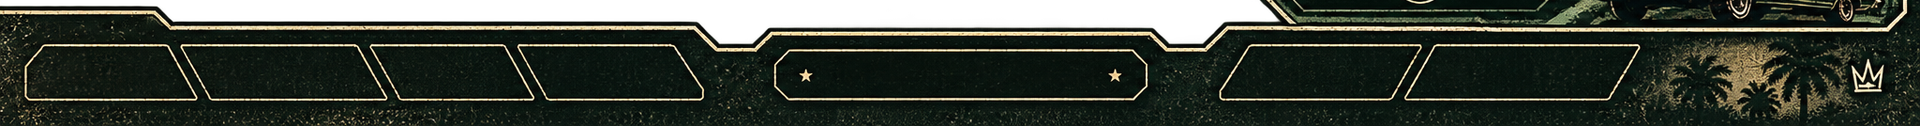
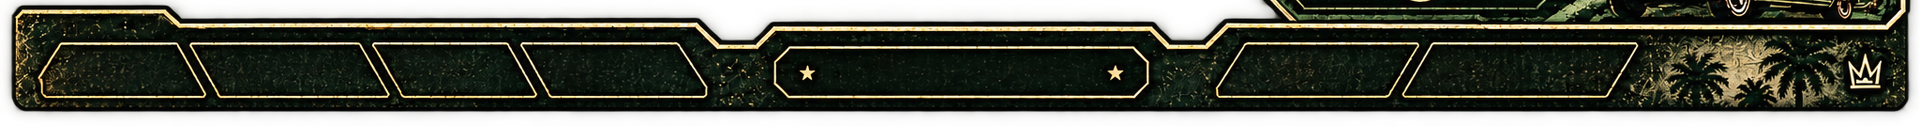
SA hero7 refresh: re-slice bars/radio from user's refined hero art; SW theme cache v72

diff --git a/tools/theme_tests.js b/tools/theme_tests.js
@@ -173,7 +173,7 @@ ok(SW.isThemeAsset('/fonts/chalet-london.woff2'), 'isThemeAsset: Chalet woff2');
 ok(SW.isThemeAsset('/fonts/rdr-lino.woff2'), 'isThemeAsset: RDR Lino woff2');
 ok(!SW.isThemeAsset('/fonts/pricedown-bl.woff'), 'VC UI font stays shell, not theme-asset');
 ok(swSrc.includes("ws-shell-v59"), 'SW shell cache v55');
-ok(swSrc.includes("ws-theme-v71"), 'SW theme cache v71');
+ok(swSrc.includes("ws-theme-v72"), 'SW theme cache v72');
 
 /* ---------- per-theme typography (game-authentic fonts) ---------- */
 for (const f of ['bank-gothic.woff', 'beckett.woff2', 'chalet-london.woff2',

diff --git a/sw.js b/sw.js
@@ -10,7 +10,7 @@
      default Vice City set.
    Map tiles, routing and search always go to the network. */
 const CACHE = 'ws-shell-v59';
-const THEME_CACHE = 'ws-theme-v71';
+const THEME_CACHE = 'ws-theme-v72';
 const VC_BLIPS = ['airYard','barbers','burgerShot','cash','chicken','dateDisco','dateDrink',
   'dateFood','diner','fuel','girlfriend','gym','hostpital','modGarage','north','parking',
   'pizza','police','propertyG','qmark','race','runway','saveGame','school','spray','tattoo','waypoint'];

diff --git a/ASSET_SOURCES.md b/ASSET_SOURCES.md
@@ -415,3 +415,17 @@ local (nothing hotlinked at runtime).
     grunge paper panel → subtle parchment texture overlay on the leather.
 - License/source note: community-redistributed extracted UI textures, same
   standing as the RDR2 blip extraction. Personal-use project.
+
+## 2026-09-08 — San Andreas dashboard chrome, hero7 refresh (refined user art)
+
+### Source artwork
+- Supplied by the user (refined hero PNG, 2048x768 RGBA, true transparency
+  in the map area): kept in-repo as
+  `themes/san-andreas/dashboard/hero7/hero-source.png`. Replaces the earlier
+  hero revision as the slice source; the earlier revision is superseded.
+- Slices cut directly from the source (PIL, re-runnable), served as the live
+  dashboard chrome — no generated approximations:
+  - `themes/san-andreas/dashboard/topbar-hero7.png` (1920x126 RGBA) — source rows 0-140
+  - `themes/san-andreas/dashboard/bottombar-hero7.png` (1920x126 RGBA) — source rows 634-768
+  - `themes/san-andreas/dashboard/radio-hero7.png` (701x544 RGBA) — source box (1300,88)-(2048,668)
+- License: user-supplied art for this personal project.
